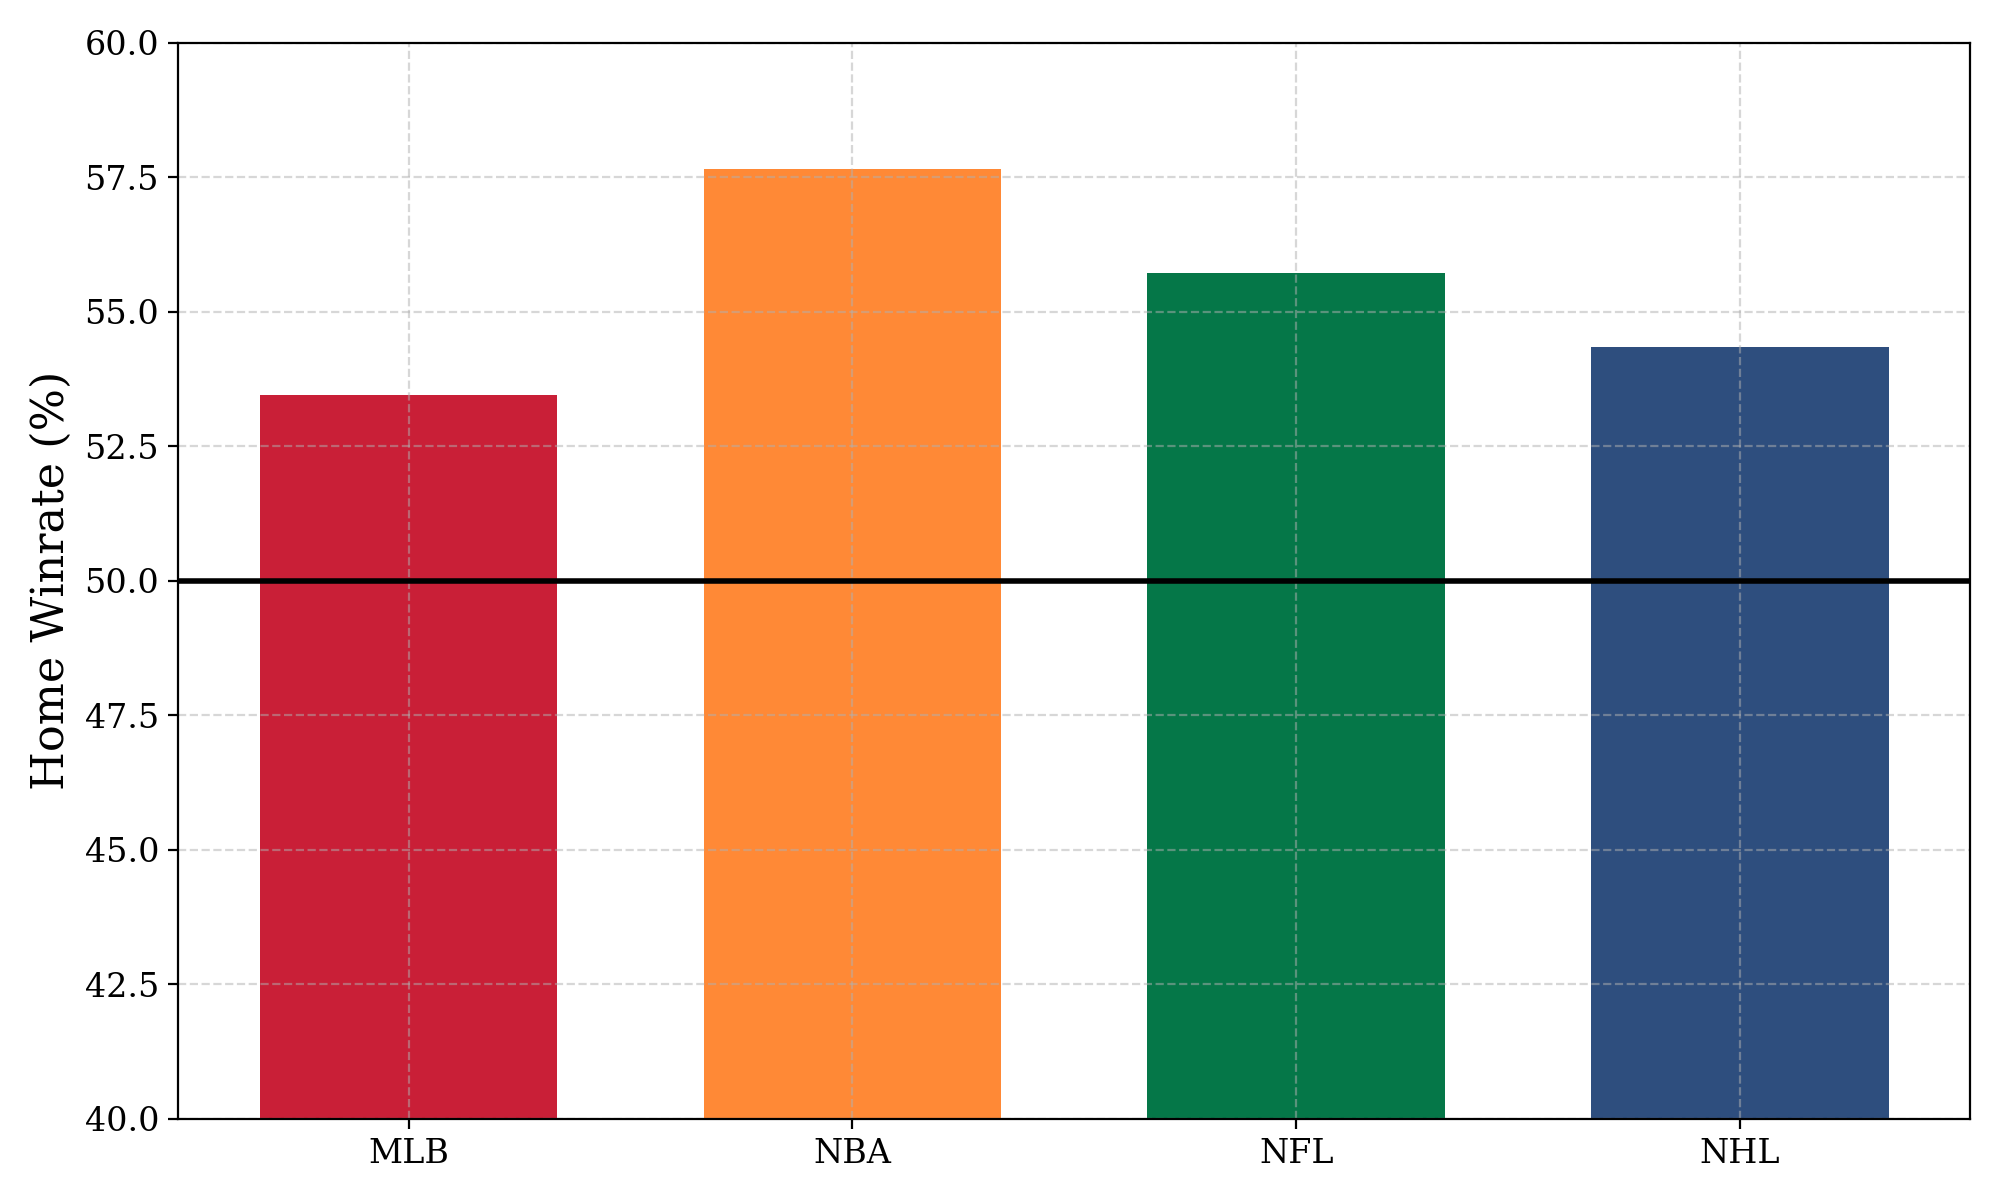
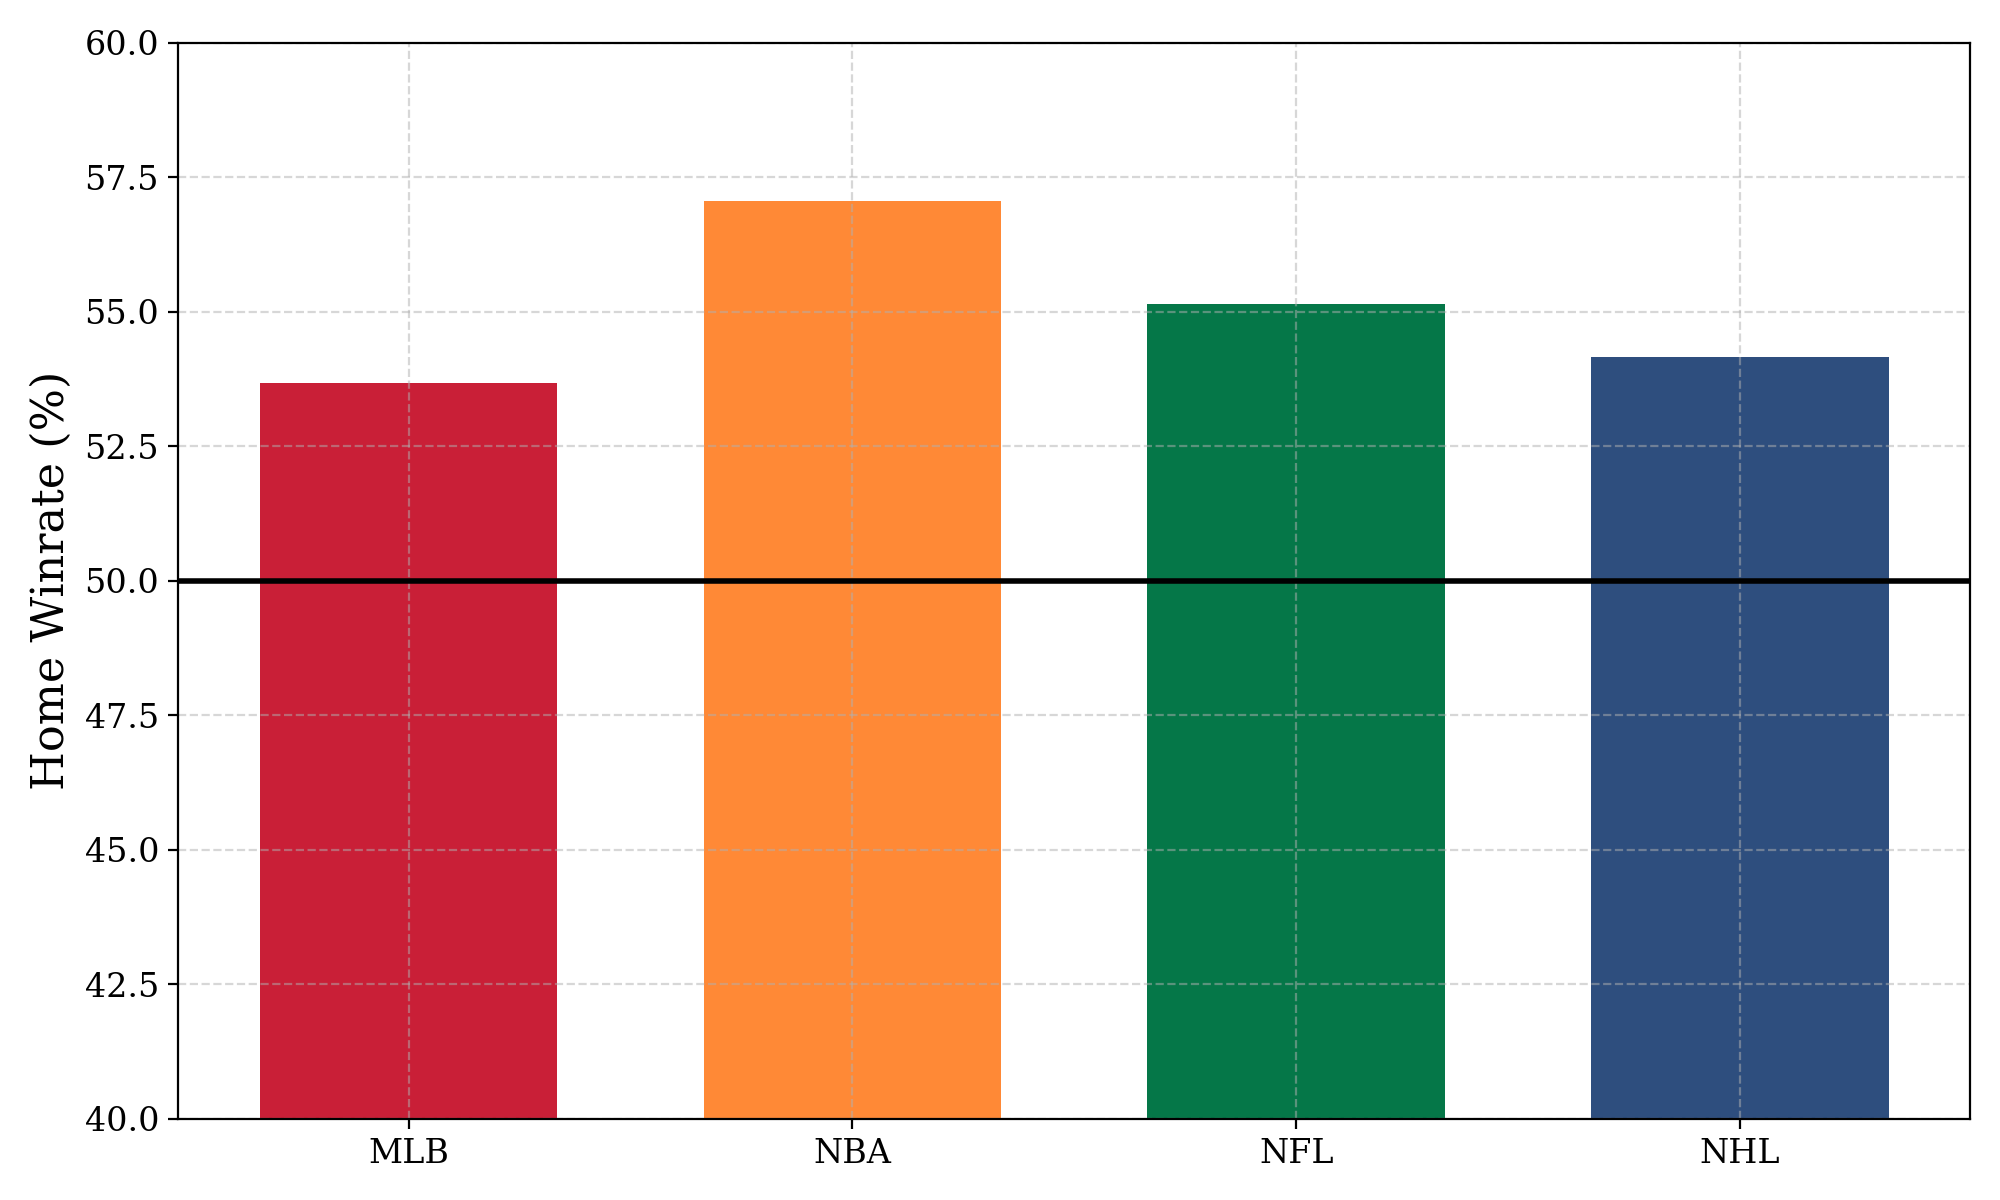
modified home win to only use second half of season games

diff --git a/src/analysis/home_win_seasonal.py b/src/analysis/home_win_seasonal.py
@@ -19,6 +19,9 @@ def compute_seasonal_home_win() -> None:
     for league in leagues:
         df = pd.read_csv(f"processed_data/{league}.csv")
 
+        # drop first half of season games
+        df = df[df["second_half"] == 1]
+
         # season-level home win percentage
         season_home = (
             df.groupby("season")["result"]

diff --git a/src/analysis/home_win.py b/src/analysis/home_win.py
@@ -19,6 +19,8 @@ def compute_home_win() -> None:
     for league in leagues:
         df = pd.read_csv(f"processed_data/{league}.csv")
 
+        # drop first half of season games
+        df = df[df["second_half"]==1]
         
 
         league_tables[league] = 100 * len(df[df["result"]==1]) / len(df)
